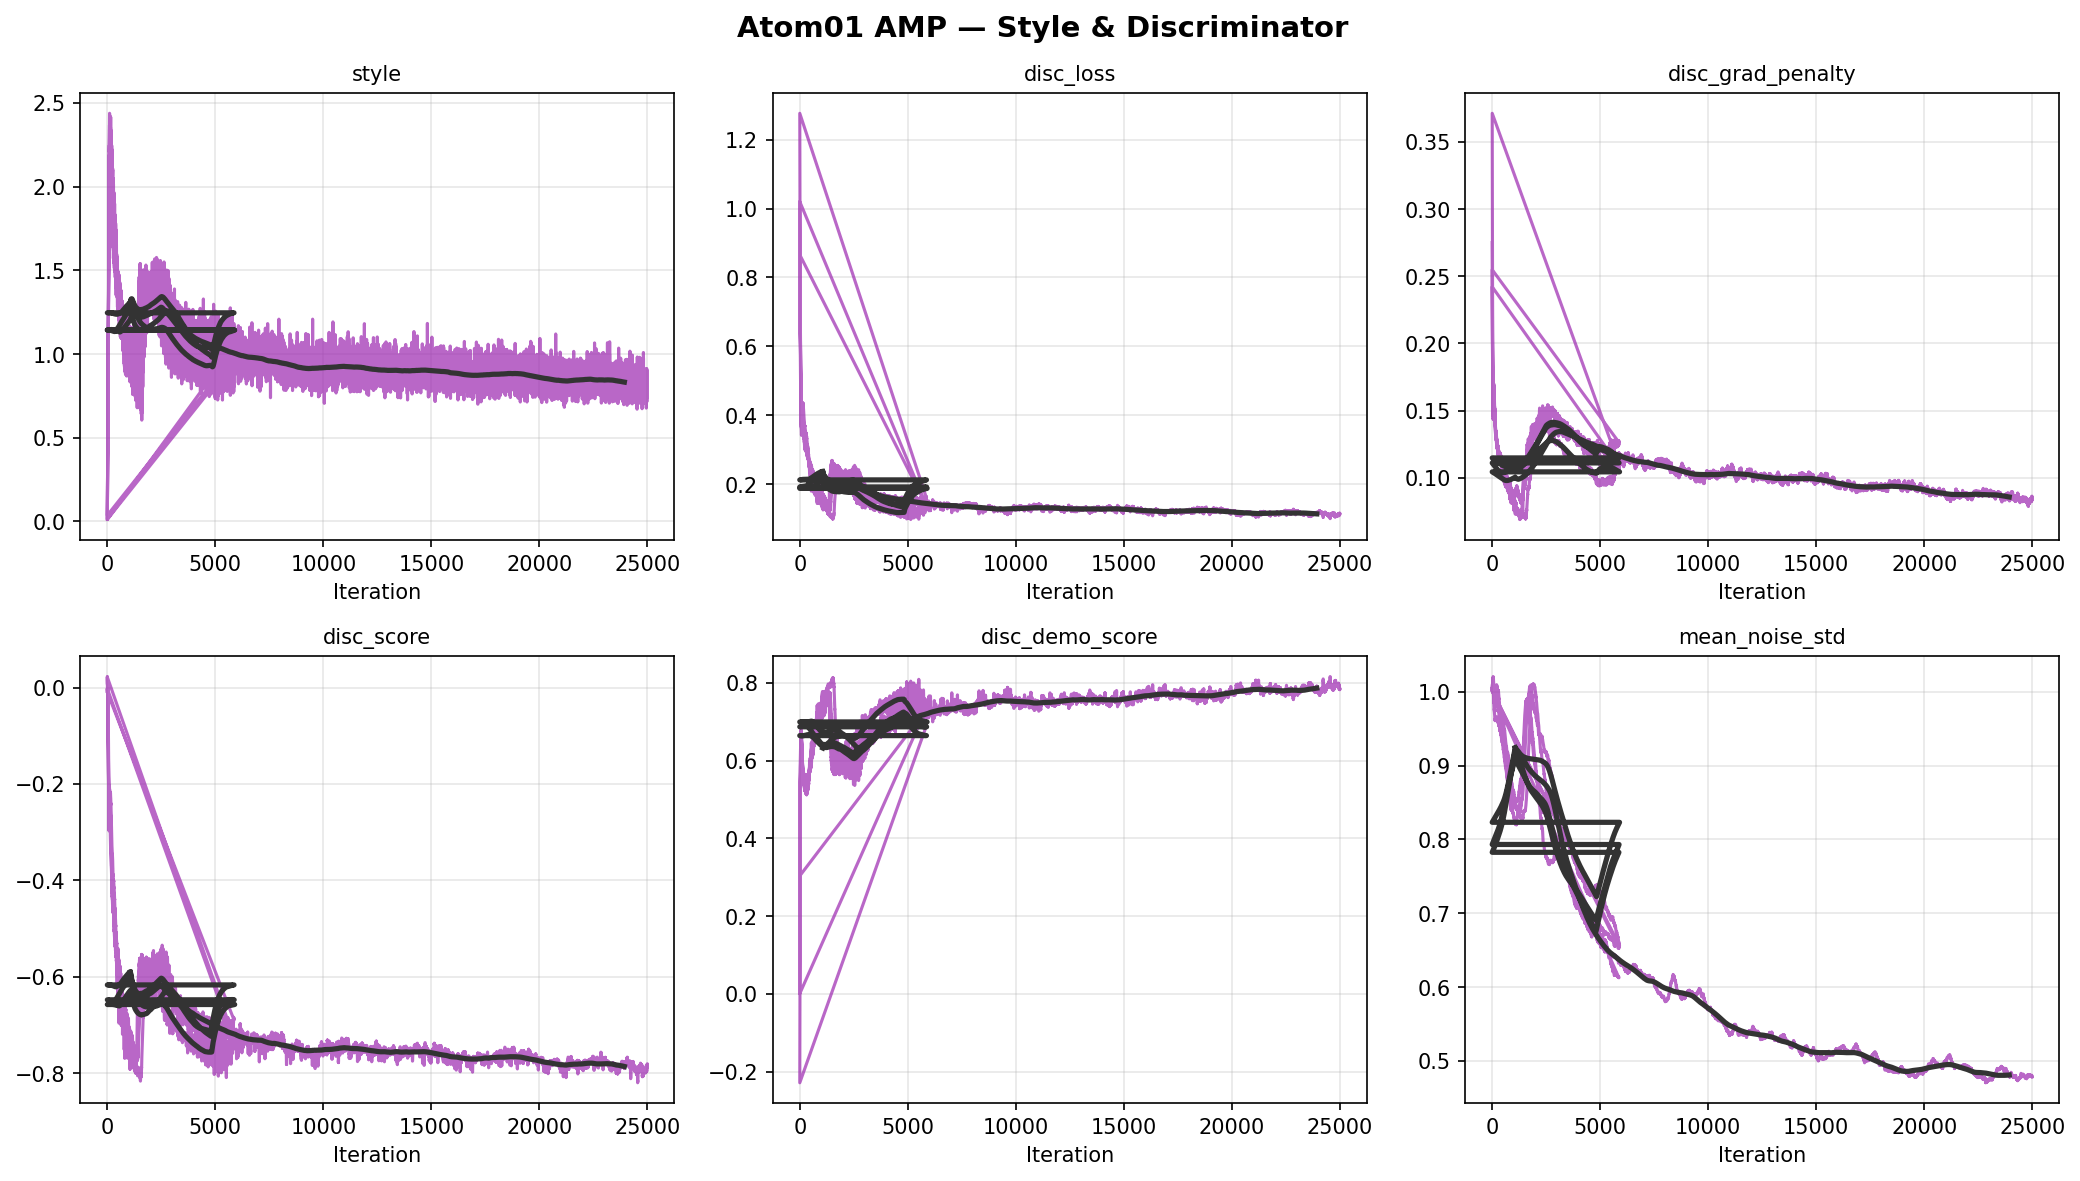
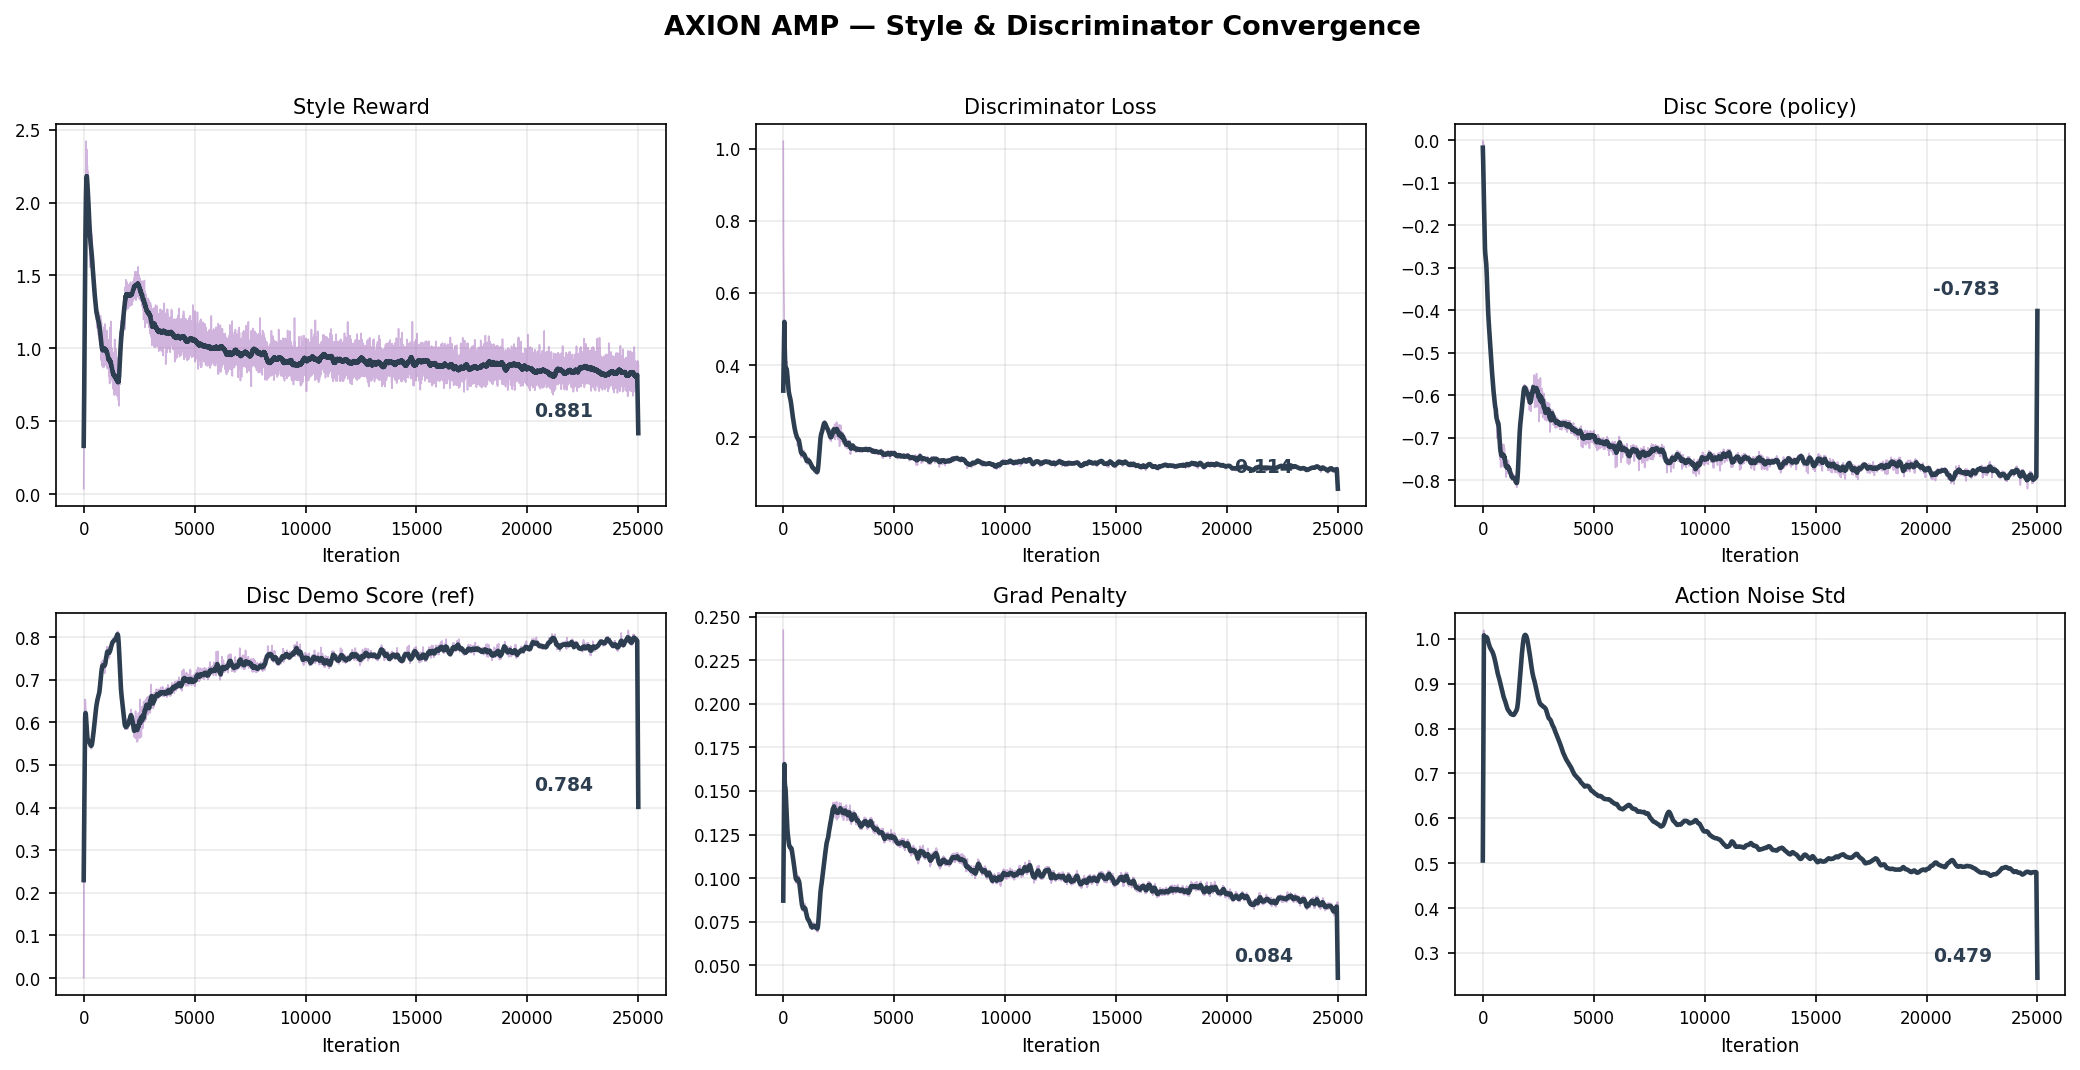
docs: clean training plots, add demo video, update README
- Fix training curves: single event file (25k iter complete run), no multi-process artifacts
- Add demo video via GitHub Release v1.0.0
- Embed video player + download link in README

diff --git a/README.md b/README.md
@@ -8,7 +8,7 @@ Implements **AMP (Adversarial Motion Priors)** for simultaneous fall recovery, l
 
 ## Results — AMP Getup + Walk + PHUMA Style
 
-**Task**: `Atom01-AMP-Getup-Phuma-V3`  
+**Task**: `Atom01-AMP-Getup-Phuma-V3`
 Three behaviors trained jointly: fall recovery (52%) + walking (24%) + PHUMA style imitation (24%)
 
 | Metric | Value |
@@ -20,15 +20,21 @@ Three behaviors trained jointly: fall recovery (52%) + walking (24%) + PHUMA sty
 | Training hardware | NVIDIA RTX 3090 |
 | Training duration | ~17.5 hours |
 
+### Demo Video
+
+<video src="https://github.com/Kitjesen/axion-train/releases/download/v1.0.0/demo.mp4" controls width="100%"></video>
+
+▶ [Download demo.mp4](https://github.com/Kitjesen/axion-train/releases/download/v1.0.0/demo.mp4) — 64 robots, Getup+Walk+PHUMA style, model_24999.pt
+
 ### Training Curves
 
 ![Training Overview](docs/images/training_overview.png)
 
-*Mean reward converges to ~300 by ~10k iterations; episode length saturates to max (2500) within 5k iterations, meaning the robot stops falling entirely.*
+*Mean reward converges to ~300 by ~10k iterations; episode length saturates to max (2500) within 5k iterations — the robot stops falling entirely.*
 
 ![Style & Discriminator](docs/images/style_discriminator.png)
 
-*AMP discriminator loss converges; style reward stabilizes at ~0.88 indicating the robot's motion closely matches the PHUMA reference motion library.*
+*Discriminator loss converges to 0.11; style reward stabilizes at **0.881**, disc_demo_score reaches 0.784 (policy motions approach reference quality).*
 
 ![Reward Breakdown](docs/images/reward_breakdown.png)
 
